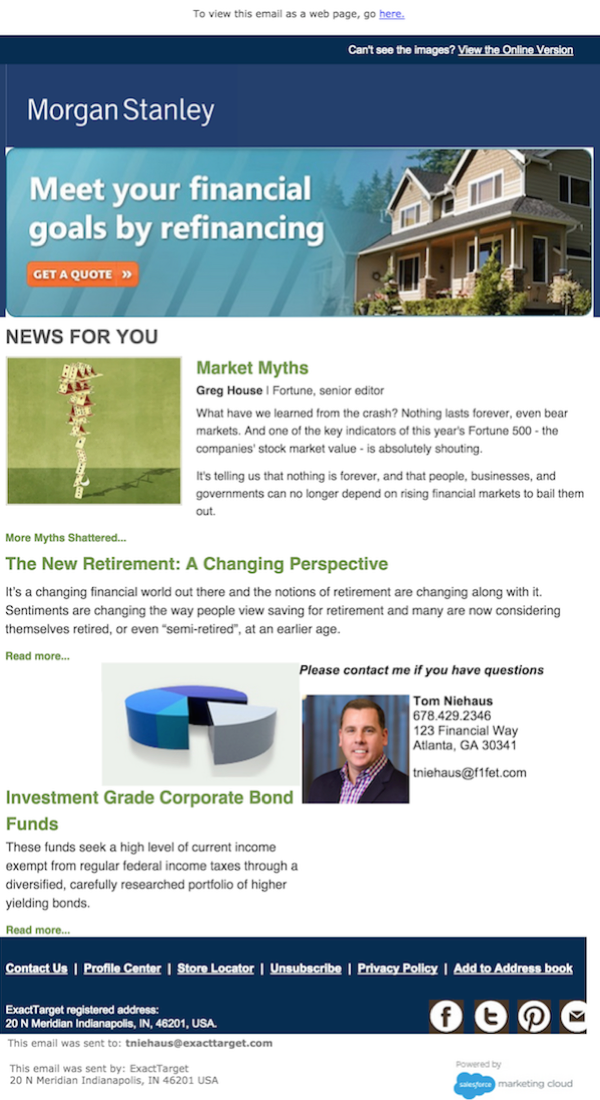
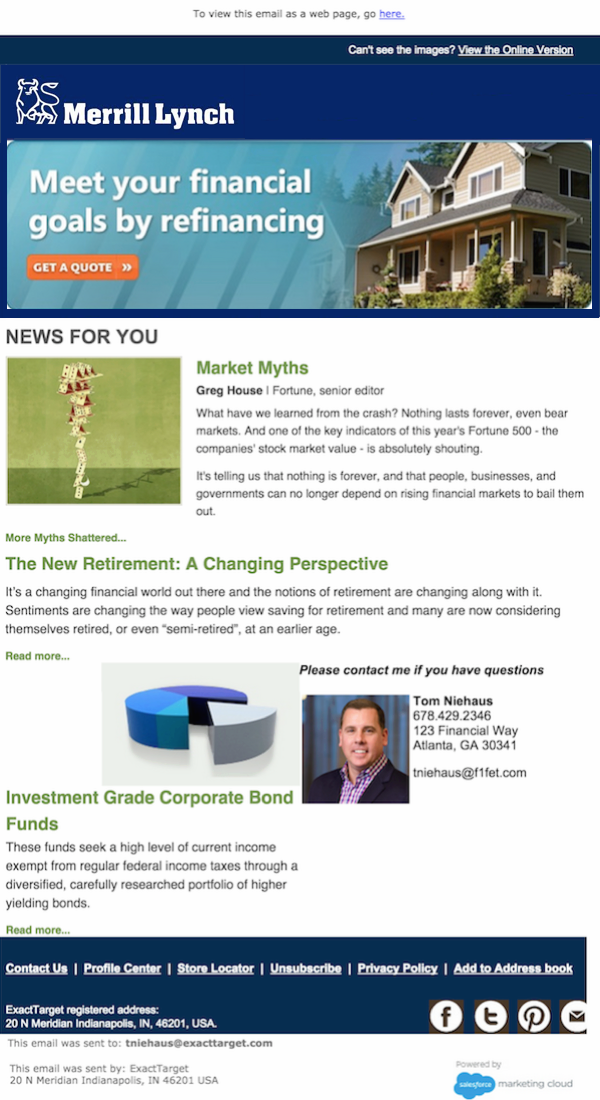
boa

Changed region(s): [[0.0, 0.0618, 1.0, 0.3091]]

diff --git a/app/data/publications.js b/app/data/publications.js
@@ -1,8 +1,8 @@
 module.exports = [
-  {"id": 1, "name":"Market Insights - Monthly", "description": "Monthly publication to share MS view on Market Conditions" },
-  {"id": 2, "name":"Global Investment Committee Weekly", "description":"Weekly publication from the MS Investment Committee on GlobalMarkets"},
+  {"id": 1, "name":"Market Insights - Monthly", "description": "Monthly publication to share ML view on Market Conditions" },
+  {"id": 2, "name":"Global Investment Committee Weekly", "description":"Weekly publication from the ML Investment Committee on GlobalMarkets"},
   {"id": 3, "name":"Retirement Planning Today - Monthlyt", "description":"Retirement updates on a Monthly and Semi-Monthy Basis"},
-  {"id": 4, "name":"World Point of View - Weekly", "description":"MS View of the World-wide Markets"},
-  {"id": 5, "name":"Investor Advisors Daily - Daily", "description":"Daily updates from the MS Advisor Team on Investment Conditions"},
+  {"id": 4, "name":"World Point of View - Weekly", "description":"ML View of the World-wide Markets"},
+  {"id": 5, "name":"Investor Advisors Daily - Daily", "description":"Daily updates from the ML Advisor Team on Investment Conditions"},
   {"id": 6, "name":"On the Market", "description":"Daily Advice and Predictions on the Market for the day"}
 ];

diff --git a/app/data/emails.js b/app/data/emails.js
@@ -3,8 +3,8 @@
 */
 module.exports = [{
     id: 1,
-    name: "MS - Newsletter - March 2015",
-    subject: "Check out the latest news from MS",
+    name: "ML - Newsletter - March 2015",
+    subject: "Check out the latest news from ML",
     preheader: "Latest News Now!",
     previewImage: "poc-68628-email-thmb.jpg",
     image: "poc-68628-email.jpg",
@@ -16,8 +16,8 @@ module.exports = [{
     entitlements: [6]
 }, {
     id: 2,
-    name: "MS - Newsletter - February 2015",
-    subject: "Check out the latest news from MS",
+    name: "ML - Newsletter - February 2015",
+    subject: "Check out the latest news from ML",
     preheader: "Latest News Now!",
     previewImage: "poc-68376-email-thmb.jpg",
     image: "poc-68376-email.jpg",

diff --git a/app/data/fa-info.js b/app/data/fa-info.js
@@ -3,7 +3,7 @@ module.exports = {
     {type: "Name" , "value" : "Tom Niehaus"},
     {type: "Title 1" , "value" : "Senior Vice President"},
     {type: "Title 2" , "value" : "Wealth Advisor"},
-    {type: "Email Address" , "value" : "tniehaus@f1fet.com"},
+    {type: "Email Address" , "value" : "tniehaus@ml.com"},
     {type: "Branch Location" , "value" : "123 Financial Way"},
     {type: "Twitter Handle" , "value" : "@tnieh"},
     {type: "Direct Phone", "value" : "678.429.2346"},

diff --git a/less/nav.less b/less/nav.less
@@ -1,6 +1,7 @@
 .navbar {
   border-radius:0;
   // margin-bottom:0;
+  background-color: #03246B;
 }
 
 
